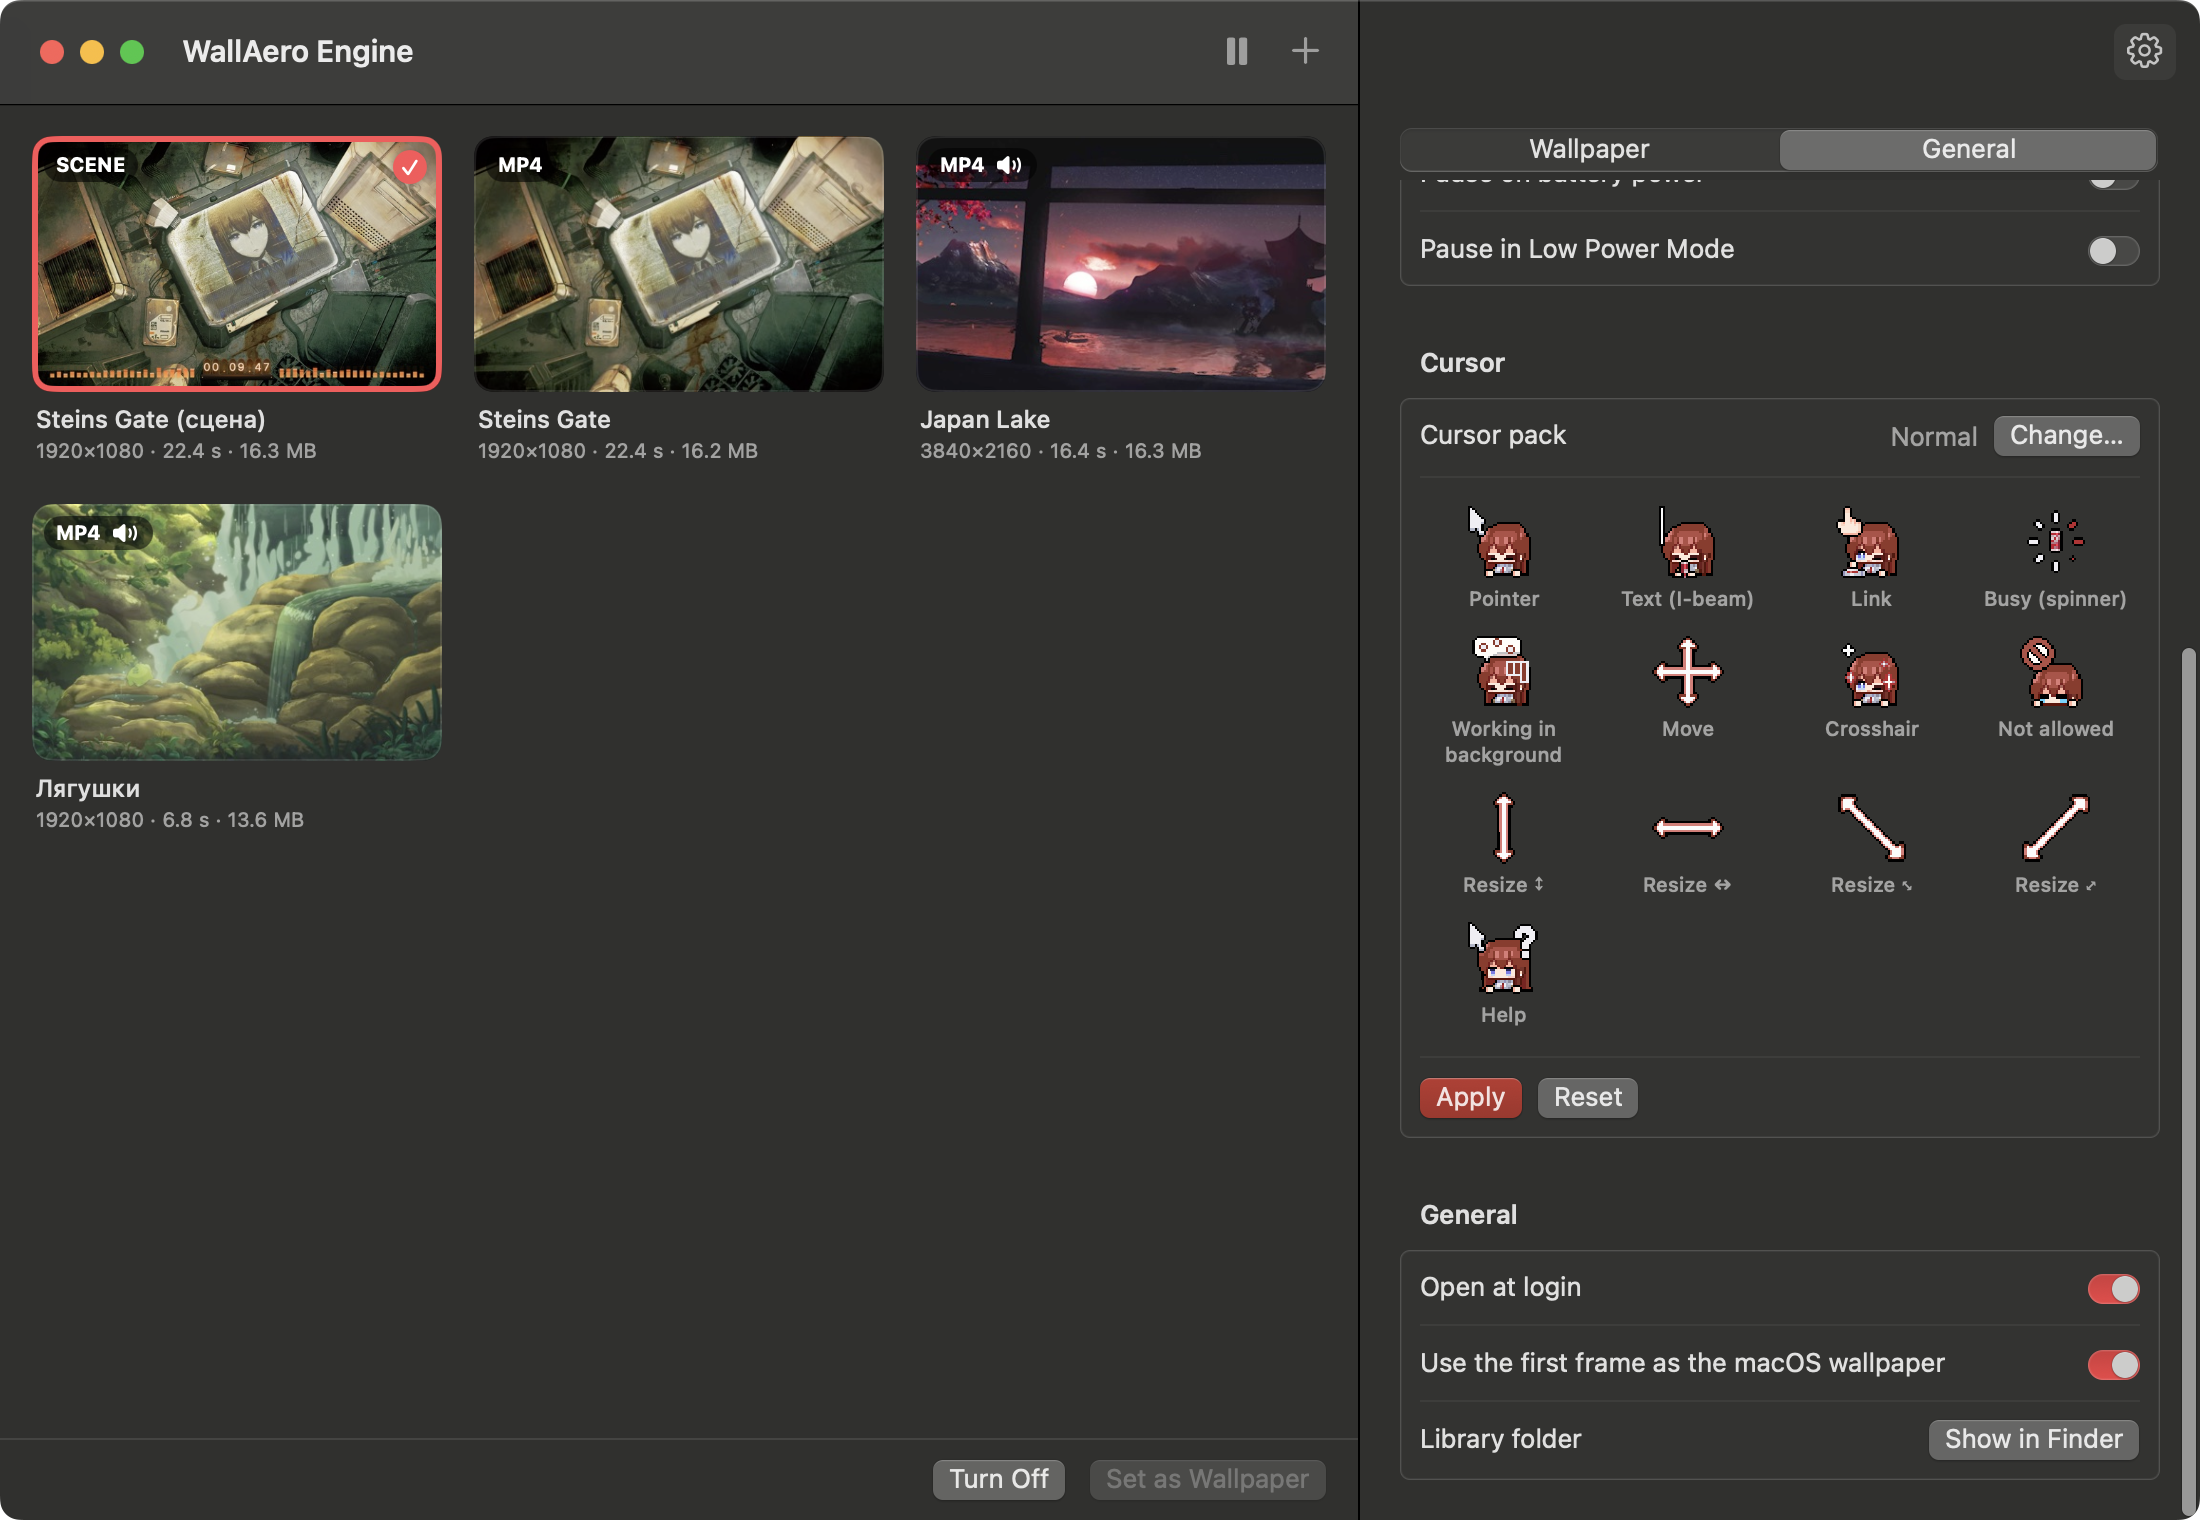
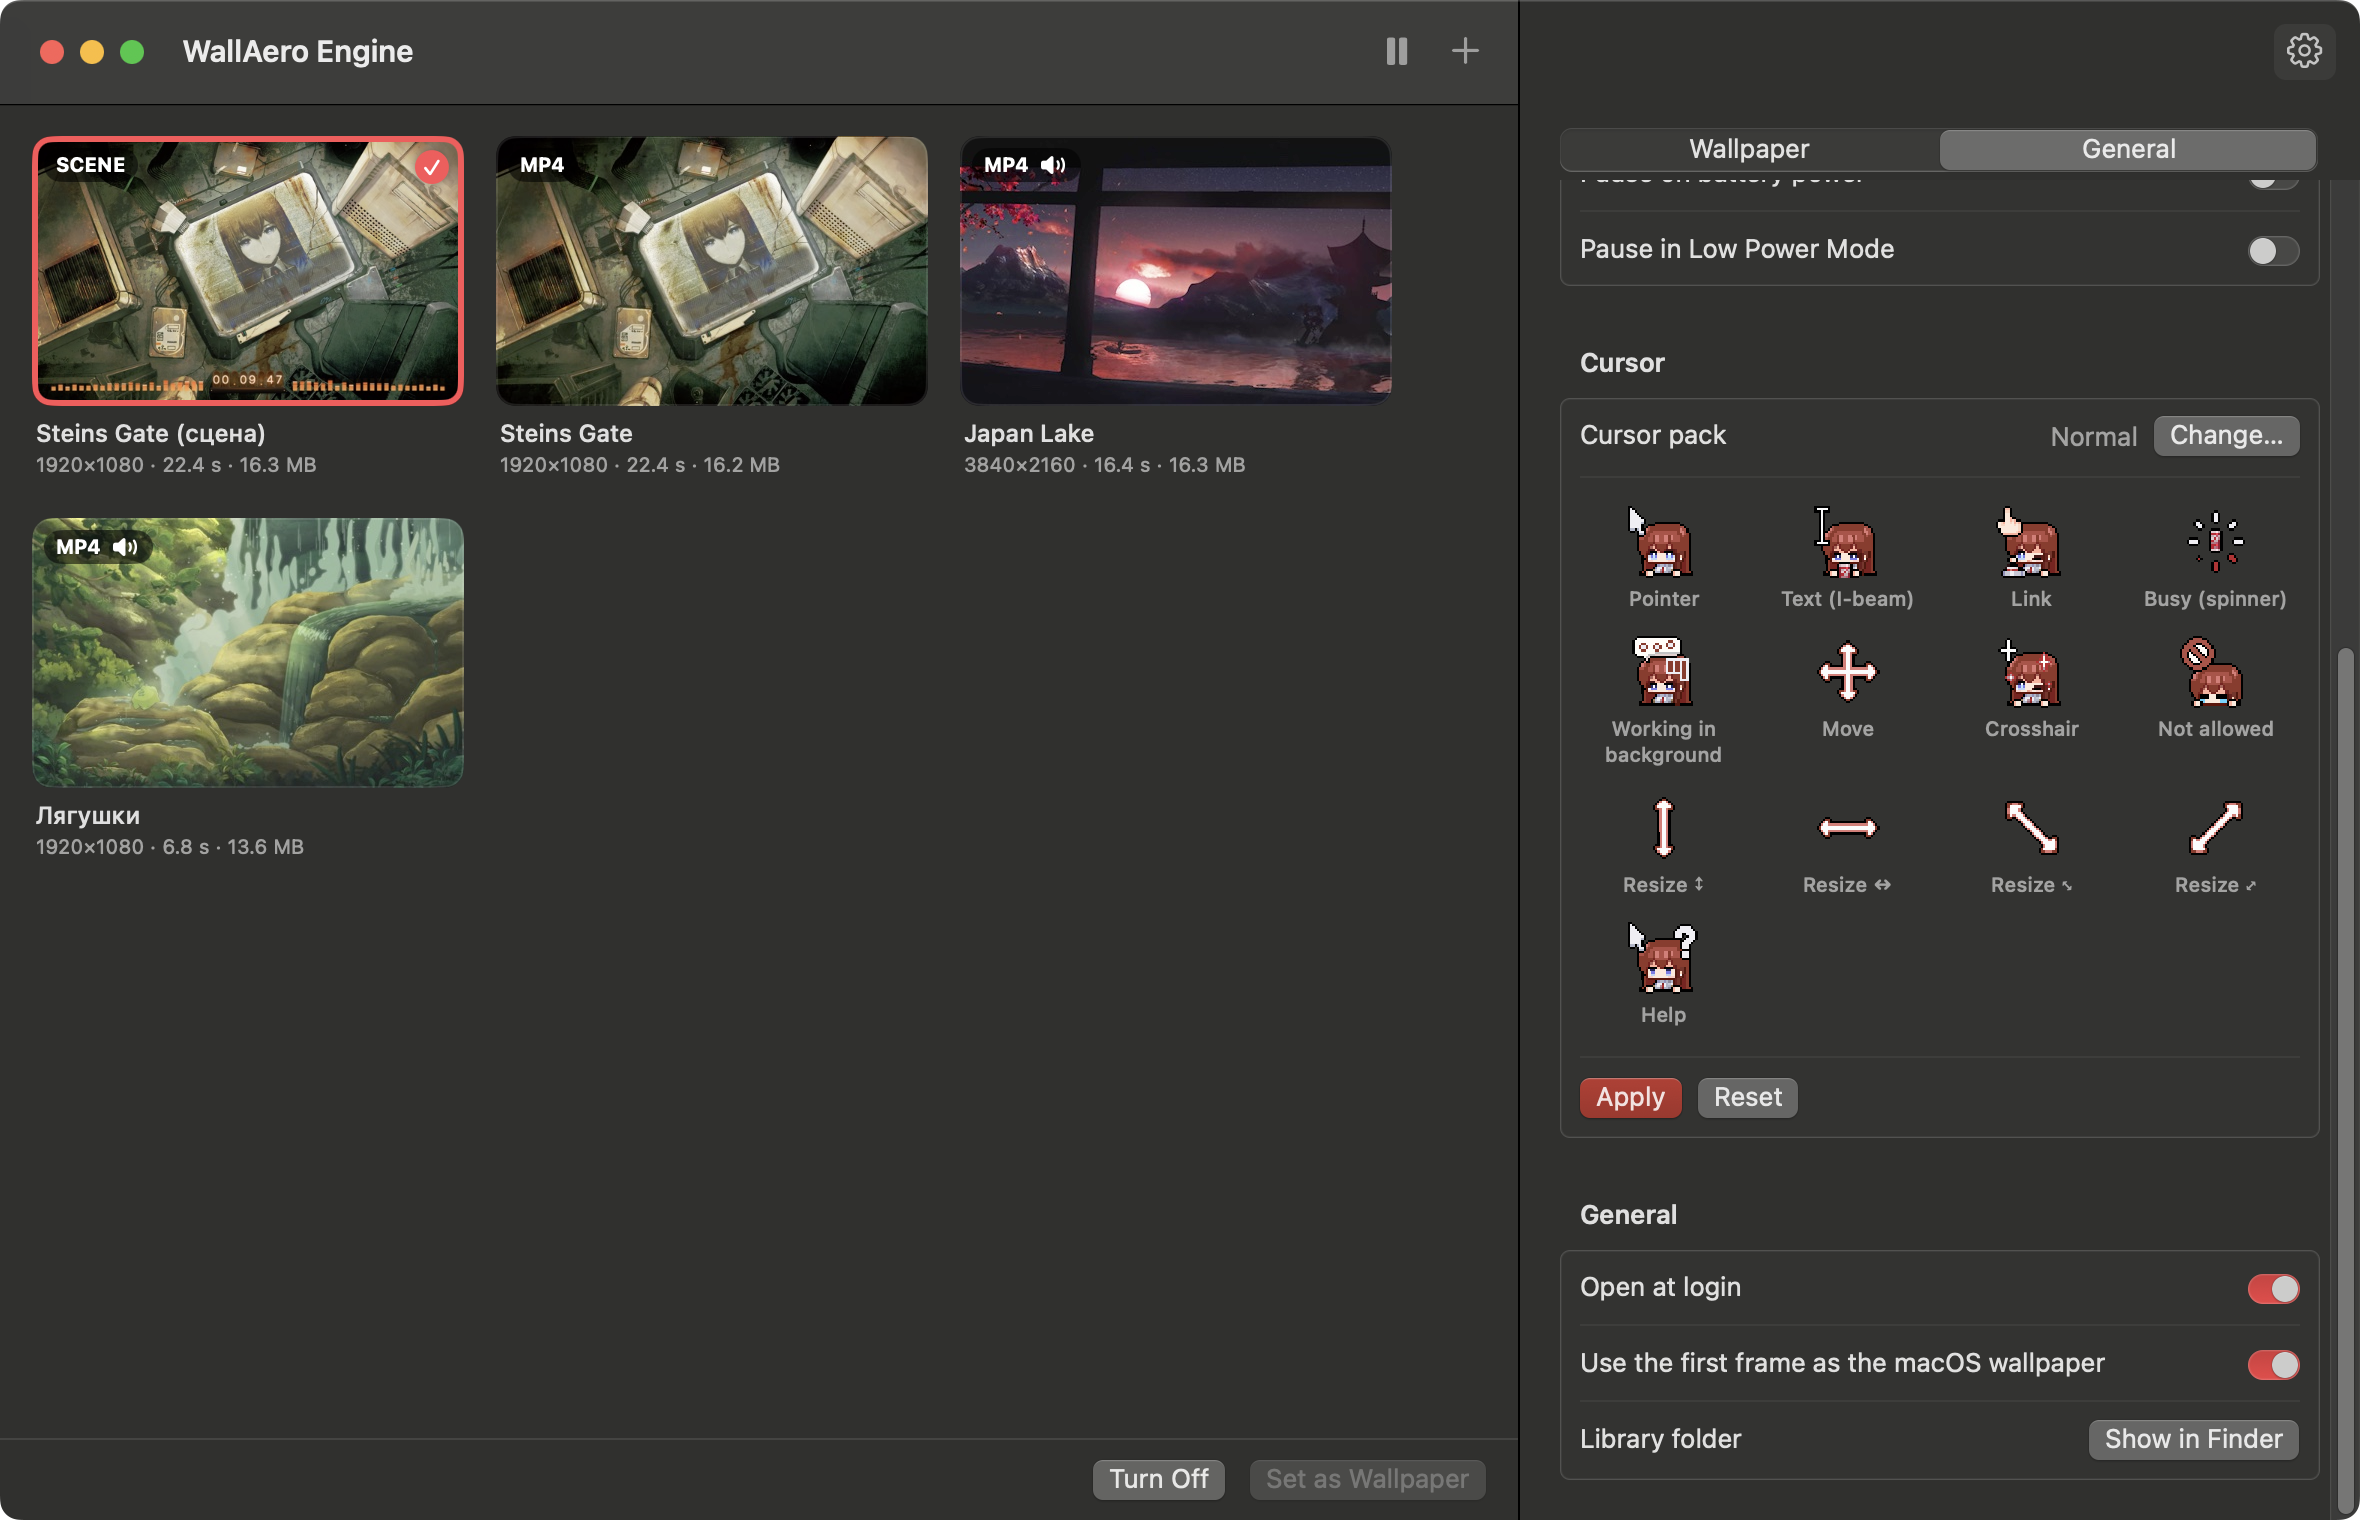
Wallpaper pictures in the library keep one size
The pictures stretched to fill the library's width, so showing and hiding
the settings at the side made them all grow and shrink. They are 216
points wide now at any width of the window: only how many fit in a row
changes, and the first ones in a row stay where they are.

The README's second screenshot is as wide as the first, so both show
three wallpapers in a row. Screenshots retaken in both languages.

diff --git a/Sources/WallAeroEngine/UI/LibraryView.swift b/Sources/WallAeroEngine/UI/LibraryView.swift
@@ -70,6 +70,9 @@ struct SettingsToggle: View {
 struct LibraryView: View {
     /// The least room the library needs, in points.
     static let minimumSize = CGSize(width: 640, height: 440)
+    /// How wide a wallpaper's picture is. It is the same at any width of the library: showing
+    /// and hiding the settings changes how many fit in a row, never their size.
+    static let tileWidth: CGFloat = 216
 
     @EnvironmentObject private var library: WallpaperLibrary
     @EnvironmentObject private var manager: WallpaperManager
@@ -226,7 +229,8 @@ struct LibraryView: View {
             EmptyLibraryView(addFiles: actions.addFiles)
         } else {
             ScrollView {
-                LazyVGrid(columns: [GridItem(.adaptive(minimum: 190, maximum: 260), spacing: 16)], spacing: 20) {
+                LazyVGrid(columns: [GridItem(.adaptive(minimum: Self.tileWidth, maximum: Self.tileWidth), spacing: 16)],
+                          alignment: .leading, spacing: 20) {
                     ForEach(library.items) { item in
                         WallpaperTile(
                             item: item,

diff --git a/Sources/WallAeroEngine/ScreenshotMode.swift b/Sources/WallAeroEngine/ScreenshotMode.swift
@@ -79,7 +79,7 @@ enum ScreenshotMode {
             await shoot(AnyView(mainView), title: "WallAero Engine", size: NSSize(width: 1180, height: 700),
                         to: directory.appendingPathComponent("library.png"))
             state.settingsTab = secondTab
-            await shoot(AnyView(mainView), title: "WallAero Engine", size: NSSize(width: 1100, height: 760),
+            await shoot(AnyView(mainView), title: "WallAero Engine", size: NSSize(width: 1180, height: 760),
                         to: directory.appendingPathComponent("settings.png")) { window in
                 if showsEnd {
                     scrollSettingsToEnd(in: window)
